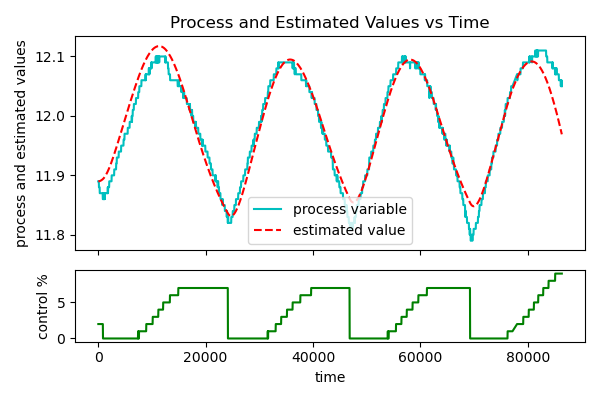
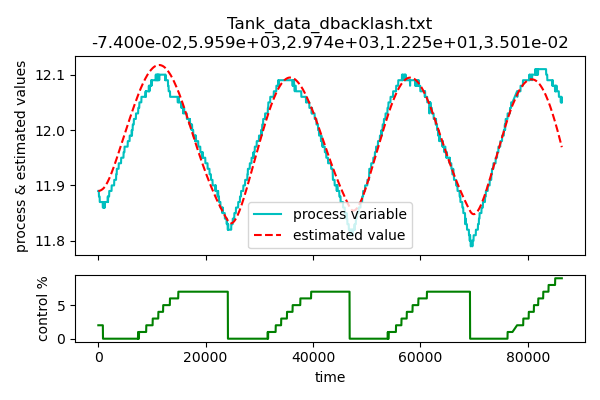
Update plot annotation

diff --git a/SmithPredictor/SysID_SOPDT.py b/SmithPredictor/SysID_SOPDT.py
@@ -7,7 +7,9 @@ Delta Computer Systems, Inc.
 
 @modified:  Brian T. Carcich
 Latchmoor Services, INC
+Ca. 2021-03-07
 """
+import os
 import sys
 from math import sqrt
 import numpy as np
@@ -46,7 +48,7 @@ p[4]:  deadtime
     return _sse
 
 
-def plot_data(aTimes, aPV, aEV, aCO):
+def plot_data(aTimes, aPV, aEV, aCO,title):
     """ plot the SOPDT response
         aTimes is the array of time values at which PV and CO data was taken
         aPV is the array of provided process variable
@@ -61,8 +63,8 @@ def plot_data(aTimes, aPV, aEV, aCO):
                       'c-', label='process variable')
     _line1, = _ax0.plot(aTimes, aEV,
                       'r--', label='estimated value')
-    _ax0.set_title('Process and Estimated Values vs Time')
-    _ax0.set_ylabel('process and estimated values')
+    _ax0.set_title(title)
+    _ax0.set_ylabel('process & estimated values')
 
     _line2, = _axCO.plot(aTimes, aCO ,'g-',label='control %')
     _axCO.set_ylabel('control %')
@@ -118,7 +120,9 @@ def go_main(method='Nelder-Mead',path='Hotrod.txt',pv0=Hotrod_pv0):
     # initial process value and rate of change
     pv1 = [aPV[0], (aPV[1]-aPV[0])/(aTime[1]-aTime[0])]
     aEV = odeint(difeq, pv1, aTime, args=(k, t0, t1, c, dt ))
-    plot_data(aTime, aPV, aEV[:,0], aCO)
+    plot_data(aTime, aPV, aEV[:,0], aCO
+             , '{0}\n{1}'.format(os.path.basename(path),','.join(map('{0:.3e}'.format,res.x)))
+             )
     print("RMS error          = {:7.3f}".format(sqrt(res.fun/len(aTime))))
     print("The open loop gain = {:7.3f} PV/%CO".format(res.x[0]))
     print("Time constant 0    = {:7.3f}".format(res.x[1]))
